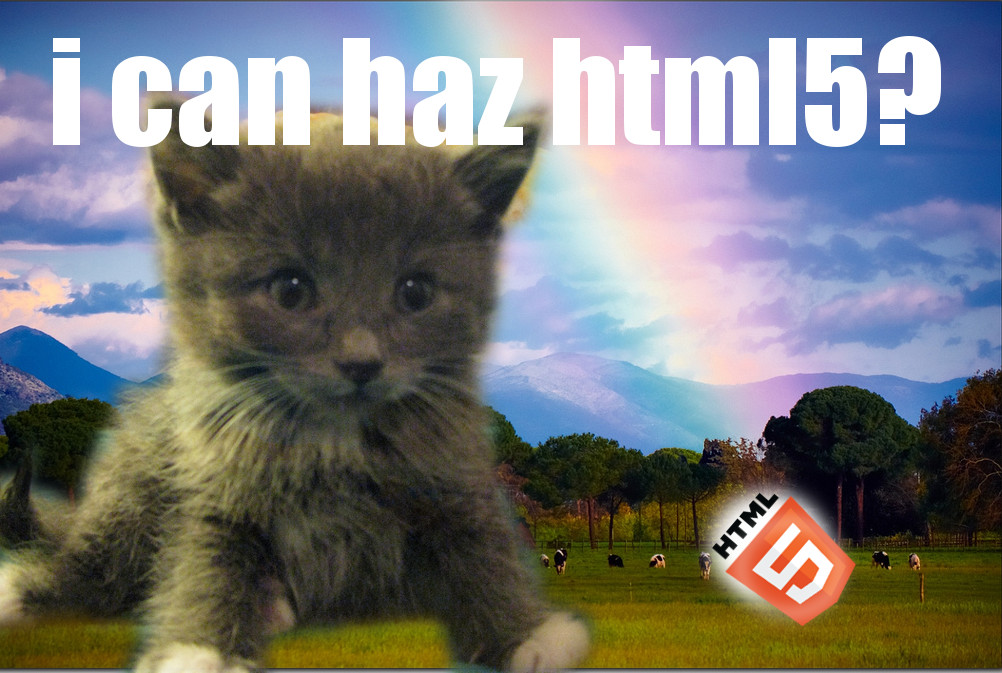
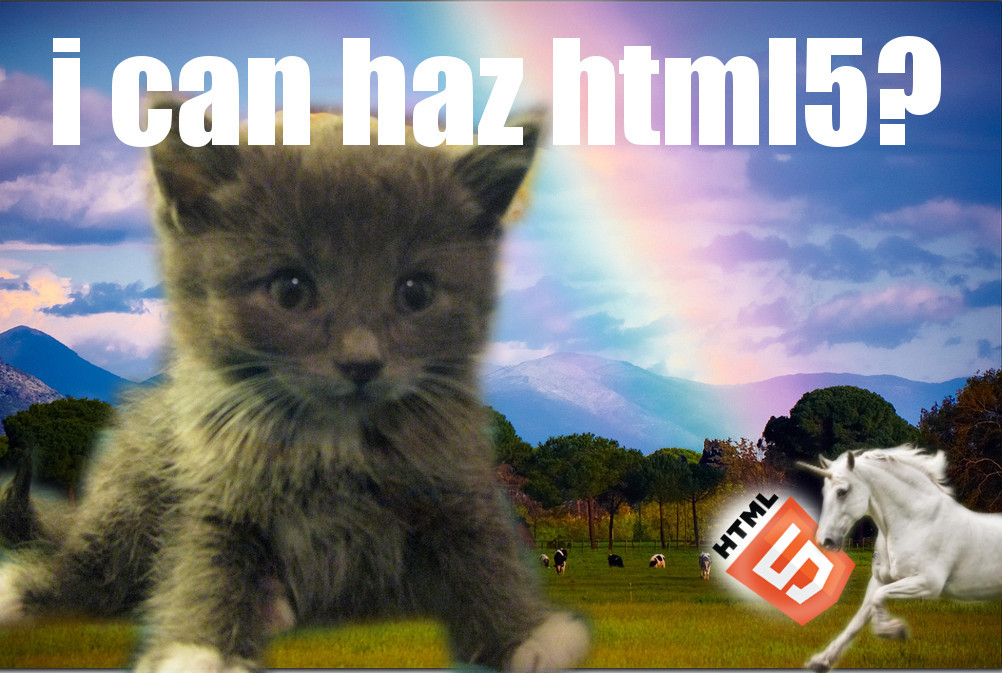
added a unicorn

Changed region(s): [[0.7735, 0.6553, 1.0, 1.0]]

diff --git a/HTML5Dev2012/index.html b/HTML5Dev2012/index.html
@@ -34,25 +34,30 @@
 <!-- Begin slides. Just make elements with a class of slide. -->
 
 <section class="slide">
-	<span class="vcenter">
+<span class="vcenter">
 	<h1>HTML5 Video Full Throttle</h1>
 	( or how I learned to stop worrying and love html5 web video )<br>
-	<div style="height:80px;" ></div>	
-	<img src="HTML5_shield_re.png" style="height:70px;display:inline">
-	<img src="DevConf_text_re.png" style="height:40px;display:inline;position:relative;top:-20px;"> 
-	<span style="position:relative;top:-65px" >SF | 2012</span>
-	<div ></div>	
-	<img src="kaltura_logo.png" style="height:80px;display:inline">
-	<span style="position:relative;top:-45px;">Michael Dale 
-		<img src="twitter_newbird_blue.png"  style="position:relative;top:38px;height:40px;display:inline"> 
-		<span style="position:relative;font-size:1em;">@michael_dale</span>
-	</span> 
-	<BR><span style="position:relative;left:25px;top:-30px;">Lead Front End Architect</span>
-	<br> 
-	follow along:<a href="http://goo.gl/yHm2l"> http://goo.gl/yHm2l </a>
+	<div style="height:80px;" ></div>
+	    <img src="HTML5_shield_re.png" style="height:70px;display:inline">
+    <img src="DevConf_text_re.png" style="height:40px;display:inline;position:relative;top:-20px;"> 
+    <span style="position:relative;top:-65px" >SF | 2012</span>
+    <div>
+	     <br> 
+	    follow along:<a href="http://goo.gl/yHm2l"> http://goo.gl/yHm2l </a>
+    </div>
+    </span>
 </section>
  
-
+<section class="slide">
+<span class="vcenter">
+    <img src="kaltura_logo.png" style="height:80px;display:inline">
+    <span style="position:relative;top:-45px;">Michael Dale 
+        <img src="twitter_newbird_blue.png"  style="position:relative;top:38px;height:40px;display:inline"> 
+        <span style="position:relative;font-size:1em;">@michael_dale</span>
+    </span> 
+    <BR><span style="position:relative;left:25px;top:-30px;">Lead Front End Architect</span>
+</span>
+</section>
 
 <section class="slide">
 	<h2>Promise of HTML5</h2>
@@ -77,11 +82,12 @@
 </section>
 
 <section class="slide vcenter">
-	<h2>& Kittens and Rainbows!</h2>
+	<h2>& Kittens, Rainbows and Unicorns!</h2>
 	<img src="icanhashtml5.jpg">
 	<span style="font-size:.7em;">
 	cc attribution <a href="http://www.flickr.com/photos/aigle_dore/4516670863/">aigle_dore</a> 
 	cc kitten <a href="http://www.flickr.com/photos/mtrichardson/4626549119/">mtrichardson</a> 
+	cc unicorn <a href="http://www.flickr.com/photos/robboudon/6035811624/sizes/l/in/photostream/">robboudon</a> 
 	</span>
 </section>
 
@@ -138,7 +144,7 @@
 <section class="slide">
 	<h2>Windy road; but we still want kittens!</h2>
 	<div class="vcenter">
-	<img src="lombard.jpg" style="height:400px;">
+	<img src="lombard.jpg" style="height:300px;">
 	<span syle="text-align:center">not just one type of kitten; but every variation.</span>
 	<br>
 	</div>
@@ -206,13 +212,13 @@
 <section class="slide vcenter">
     <h2> Embed everywhere </h2>
     <ul>
-        <li><h4>Keep your kittens safe in a sandbox!</h4>
+        <li  class="slide"><h4>Keep your kittens safe in a sandbox!</h4>
        	<img src="kittens_sandbox.jpg"></img>
         </li>
-        <li><h4><a href="http://html5video.org/kaltura-player/docs/Embeding/kwidget">Iframe embed</a> 
+        <li  class="slide"><h4><a href="http://html5video.org/kaltura-player/docs/Embeding/kwidget">Iframe embed</a> 
         protects against messy client CSS and JS</li></h4>
-        <li><h4>Friendly iframes!</h4><p>Avoid async issues for realtime applications, avoid overhead of postMessage; avoid attribute sync proxy</p></li>
-        <li>  <h4> Embed flexibility: <a href="http://html5video.org/kaltura-player/docs/Embeding/thumb">Thumbnails embeds</a> dozens of players in few ms </h4>
+        <li class="slide"><h4>Friendly iframes!</h4><p>Avoid async issues for realtime applications, avoid overhead of postMessage; avoid attribute sync proxy</p></li>
+        <li class="slide">  <h4> Embed flexibility: <a href="http://html5video.org/kaltura-player/docs/Embeding/thumb">Thumbnails embeds</a> dozens of players in few ms </h4>
          <p>Work around iOS JS play restriction; sync playback of black video src; async loading of library; iframe and asset metadata</p>
          </li>
     </ul>
@@ -258,20 +264,15 @@
 </section>
 
 <section class="slide vcenter">
-    <h2> Taking advantage of Desktop HTML5!</h2>
-    <li class="slide"> <h4>DOM full screen</h4></li>
-    <li class="slide"> <h4>Multiple video playback support ( gapless ad inserts)</h4> </li>
-    <li class="slide"> <h4><a href="http://html5video.org/blog/2012/09/22/foms-workshop-and-the-state-of-open-web-video/">Upcoming features</a> webRTC; media source api etc. </h4> </li>
-</section>
-
-
-<section class="slide vcenter">
     <h2> How do we make it all <i style="font-style:italic">Fast!</i></h2>
     <ul>
     	<li class="slide"><h4>Dynamic Packaging</h4><p>
-    	   Aribrary plugin combinations cached on the CDN; ( no pre-building, important with <a href="http://html5video.org/kaltura-player/docs/">lots of plugins</a> )
+    	   Aribrary plugin combinations cached on the CDN; ( no pre-building, important with <a href="http://html5video.org/kaltura-player/docs/">lots of plugin</a> combinations )
     	</p></li>
-    	<li class="slide"><h4>iframe metadata and configuration Packaging</h4><p>Again with iframe cached on CDN; no cache if per-user access controls</li>
+    	<li class="slide"><h4>
+    	<a href="view-source:http://html5video.org/kaltura-player/mwEmbedFrame.php/wid/_243342/uiconf_id/2877502/entry_id/0_uka1msg4/?&flashvars[autoPlay]=false&">Iframe metadata</a> 
+    	and configuration Packaging</h4>
+    	<p>Again with iframe cached on CDN; no cache if per-user access controls</p></li>
     	<li class="slide"><h4>Fewer requests over cache miss</h4><p> We lean towards few requests over long or uniuqe cache times<p></li>
     </ul>
 </section>
@@ -289,6 +290,15 @@
     </ul>
 </section>
 
+<section class="slide vcenter">
+    <h2> Taking advantage of Desktop HTML5!</h2>
+     <li class="slide"><h4>Explore the future today!</h4></li>
+    <li class="slide"> <h4>DOM full screen</h4></li>
+    <li class="slide"> <h4>Multiple simotanius video/audio playback support</h4> </li>
+    <li class="slide"> <h4><a href="http://html5video.org/blog/2012/09/22/foms-workshop-and-the-state-of-open-web-video/">Upcoming features:</a> 
+    <a href="http://dvcs.w3.org/hg/html-media/raw-file/tip/media-source/media-source.html">media source api</a> ( <a href="http://html5-demos.appspot.com/static/media-source.html">demo</a> )etc. </h4> </li>
+    <li class="slide"><h4>Explore new posibilites: WebRTC <a href="http://html5video.org/videowall">video wall</a></h4></li>
+</section>
 
 <section class="slide vcenter">
 	<h2> Questions? </h2>

diff --git a/HTML5Dev2012/themeOverride.css b/HTML5Dev2012/themeOverride.css
@@ -29,3 +29,7 @@
 .slide h2{
 	font-size:2em;
 }
+
+.deck-container > .slide .deck-before, .deck-container > .slide .deck-previous {
+	opacity:1;
+}
